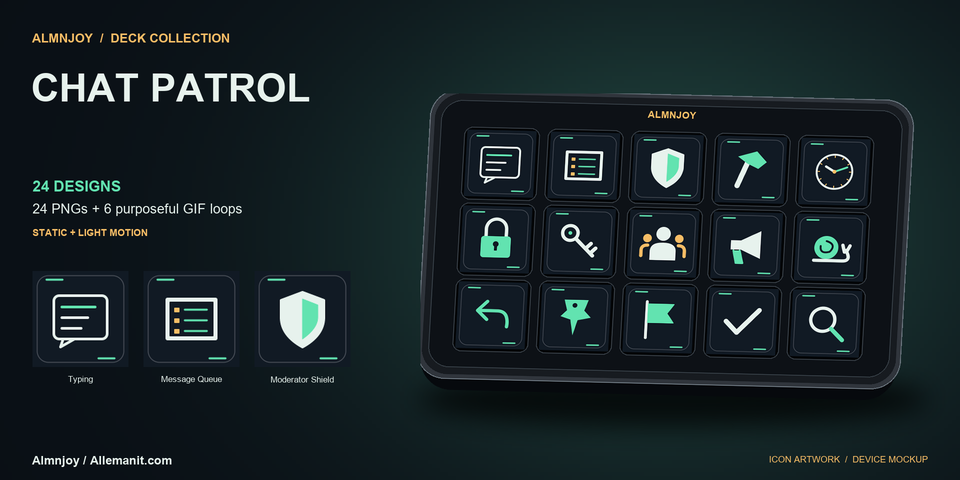
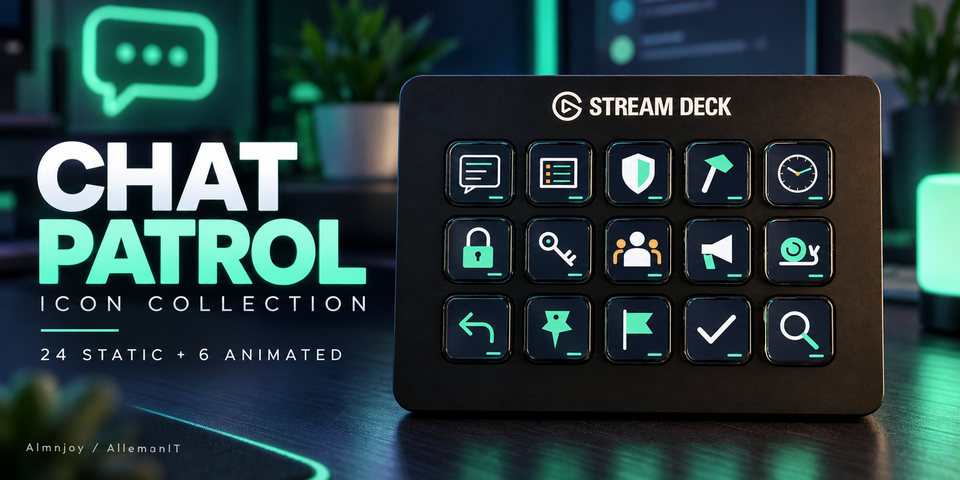
Refresh Marketplace media and add Range Finder support

diff --git a/src/data/marketplace.ts b/src/data/marketplace.ts
@@ -3,7 +3,8 @@
 //
 // Titles, categories, prices and URLs: Scout's verified listing facts, observed 2026-09-25, plus the
 //   2026-09-29 submission batch (24 products Pending review in Maker Console, prices as submitted).
-//   Library of record: PRODUCTION-1/Brand-and-Marketing/ElgatoMarketplace/README.md
+//   Library of record: BUSINESS/Brand-and-Marketing/ElgatoMarketplace/README.md
+// Media refreshed and Range Finder 0.7.0 publication confirmed by Dustin, 2026-10-10.
 // Taglines, alt text and notes: condensed from each product's DESCRIPTION.txt / LISTING.json.
 // Nothing here is written from scratch. Adding a product is one object in `products`.
 // status: live = published and purchasable; pending = submitted, Elgato review not finished, no public URL yet;
@@ -18,8 +19,9 @@ export type Product = {
   note?: string;                        // constraint carried over from the listing itself
   price?: string;                       // current price shown on the listing, not a quote from us
   url?: string;                         // canonical public listing URL
-  status: 'live' | 'pending' | 'coming-soon';
+  status: 'live' | 'pending' | 'revision' | 'coming-soon';
   version?: string;
+  support?: string;
 };
 
 // The date every price and URL below was read off the listing pages.
@@ -135,16 +137,18 @@ export const products: Product[] = [
     status: 'live',
   },
   {
-    // Published 0.6.1 in Maker Console (observed 2026-09-29). Public listing URL still to be pasted in.
+    // 0.7.0 published, confirmed by Dustin on 2026-10-10.
     slug: 'range-finder',
     title: 'Range Finder Companion',
     category: 'Plugins',
-    tagline: 'Map coordinates, bearing, distance and supply requests on one Stream Deck key for WARDOGS players, with three matching 15-key profile pages.',
+    tagline: 'Map coordinates, bearing, distance and supply requests on one Stream Deck key for WARDOGS players, with 15-key and XL profiles, three styles, calibration reset and input troubleshooting.',
     alt: 'Range Finder Companion cover: the Ultimate Artillery Deck layout, fifteen illustrative key states in amber on dark green showing position and target set, bearing and range, coordinates reset, open map, request ammo, request supplies, recenter, zoom, fire, Steam status, news and calibration.',
     note: 'Independent companion for WARDOGS, not an official game product. Range uses captured coordinates and the configured map scale; ballistic elevation is not calculated.',
     price: '$3.99',
     status: 'live',
-    version: '0.6.1',
+    version: '0.7.0',
+    support: '/support/range-finder/',
+    url: 'https://marketplace.elgato.com/product/range-finder-companion-dc521771-db4a-4fd7-a462-22f3790a043b',
   },
 
   // 2026-09-29 batch: submitted, Pending review, auto-publish on approval. No public URLs until Elgato approves.
@@ -153,7 +157,7 @@ export const products: Product[] = [
     title: 'Chat Patrol',
     category: 'Icons',
     tagline: 'Community moderation and chat tools. 24 static designs plus six animated alternatives: typing, timeout, inbox, poll, volume meter, notification.',
-    alt: 'Chat Patrol cover: fifteen Stream Deck keys on a device mockup showing the Chat Patrol artwork, ivory symbols with the pack\'s accent colors.',
+    alt: 'Chat Patrol artwork displayed on a Stream Deck in a themed desk scene.',
     note: 'Animated loops are decorative and run independently of actions.',
     price: '$3.99',
     status: 'pending',
@@ -163,7 +167,7 @@ export const products: Product[] = [
     title: 'Scene Switch',
     category: 'Icons',
     tagline: 'Broadcast scenes and source controls. 24 static designs plus six animated alternatives: scene cut, starting soon, fade, audio meter, studio lamp, transition.',
-    alt: 'Scene Switch cover: fifteen Stream Deck keys on a device mockup showing the Scene Switch artwork, ivory symbols with the pack\'s accent colors.',
+    alt: 'Scene Switch artwork displayed on a Stream Deck in a themed desk scene.',
     note: 'Animated loops are decorative and run independently of actions.',
     price: '$3.99',
     status: 'pending',
@@ -173,7 +177,7 @@ export const products: Product[] = [
     title: 'Audio Orbit',
     category: 'Icons',
     tagline: 'A compact mixing and listening desk. 24 static designs plus six animated alternatives: level meter, channel fader, waveform, tape reel, beat, gain knob.',
-    alt: 'Audio Orbit cover: fifteen Stream Deck keys on a device mockup showing the Audio Orbit artwork, ivory symbols with the pack\'s accent colors.',
+    alt: 'Audio Orbit artwork displayed on a Stream Deck in a themed desk scene.',
     note: 'Animated loops are decorative and run independently of actions.',
     price: '$3.99',
     status: 'pending',
@@ -183,7 +187,7 @@ export const products: Product[] = [
     title: 'Clip Factory',
     category: 'Icons',
     tagline: 'Editing and clip assembly. 24 static designs plus six animated alternatives: trim cut, playhead, render queue, captions, audio meter, slate.',
-    alt: 'Clip Factory cover: fifteen Stream Deck keys on a device mockup showing the Clip Factory artwork, ivory symbols with the pack\'s accent colors.',
+    alt: 'Clip Factory artwork displayed on a Stream Deck in a themed desk scene.',
     note: 'Animated loops are decorative and run independently of actions.',
     price: '$3.99',
     status: 'pending',
@@ -193,7 +197,7 @@ export const products: Product[] = [
     title: 'Dungeon Master Desk',
     category: 'Icons',
     tagline: 'Tabletop sessions and encounter tools. 24 static designs plus six animated alternatives: dice roll, session clock, candle, treasure, potion, portal.',
-    alt: 'Dungeon Master Desk cover: fifteen Stream Deck keys on a device mockup showing the Dungeon Master Desk artwork, ivory symbols with the pack\'s accent colors.',
+    alt: 'Dungeon Master Desk artwork displayed on a Stream Deck in a themed desk scene.',
     note: 'Animated loops are decorative and run independently of actions.',
     price: '$3.99',
     status: 'pending',
@@ -203,7 +207,7 @@ export const products: Product[] = [
     title: 'Inventory Alchemy',
     category: 'Icons',
     tagline: 'Ingredients, equipment and crafting storage. 24 static designs plus six animated alternatives: brew, inventory chest, crafting hammer, furnace, scales, seedling.',
-    alt: 'Inventory Alchemy cover: fifteen Stream Deck keys on a device mockup showing the Inventory Alchemy artwork, ivory symbols with the pack\'s accent colors.',
+    alt: 'Inventory Alchemy artwork displayed on a Stream Deck in a themed desk scene.',
     note: 'Animated loops are decorative and run independently of actions.',
     price: '$3.99',
     status: 'pending',
@@ -213,7 +217,7 @@ export const products: Product[] = [
     title: 'Cyber Terminal',
     category: 'Icons',
     tagline: 'Terminal tools and secure workspaces. 24 static designs plus six animated alternatives: command entry, file transfer, data activity, network traffic, access gate, health meter.',
-    alt: 'Cyber Terminal cover: fifteen Stream Deck keys on a device mockup showing the Cyber Terminal artwork, ivory symbols with the pack\'s accent colors.',
+    alt: 'Cyber Terminal artwork displayed on a Stream Deck in a themed desk scene.',
     note: 'Animated loops are decorative and run independently of actions.',
     price: '$3.99',
     status: 'pending',
@@ -223,7 +227,7 @@ export const products: Product[] = [
     title: 'Network Watch',
     category: 'Icons',
     tagline: 'Network operations and diagnostics. 24 static designs plus six animated alternatives: packet flow, throughput, server activity, ping trace, port scan, uptime.',
-    alt: 'Network Watch cover: fifteen Stream Deck keys on a device mockup showing the Network Watch artwork, ivory symbols with the pack\'s accent colors.',
+    alt: 'Network Watch artwork displayed on a Stream Deck in a themed desk scene.',
     note: 'Animated loops are decorative and run independently of actions.',
     price: '$3.99',
     status: 'pending',
@@ -233,7 +237,7 @@ export const products: Product[] = [
     title: 'Build Bay',
     category: 'Icons',
     tagline: 'Workshop builds and engineering tasks. 24 static designs plus six animated alternatives: hammer strike, build progress, bench vise, measure, weld, level.',
-    alt: 'Build Bay cover: fifteen Stream Deck keys on a device mockup showing the Build Bay artwork, ivory symbols with the pack\'s accent colors.',
+    alt: 'Build Bay artwork displayed on a Stream Deck in a themed desk scene.',
     note: 'Animated loops are decorative and run independently of actions.',
     price: '$3.99',
     status: 'pending',
@@ -243,7 +247,7 @@ export const products: Product[] = [
     title: 'Deploy Station',
     category: 'Icons',
     tagline: 'Software delivery and release operations. 24 static designs plus six animated alternatives: pipeline, console, service, traffic, health, release gate.',
-    alt: 'Deploy Station cover: fifteen Stream Deck keys on a device mockup showing the Deploy Station artwork, ivory symbols with the pack\'s accent colors.',
+    alt: 'Deploy Station artwork displayed on a Stream Deck in a themed desk scene.',
     note: 'Animated loops are decorative and run independently of actions.',
     price: '$3.99',
     status: 'pending',
@@ -253,7 +257,7 @@ export const products: Product[] = [
     title: 'Focus Workshop',
     category: 'Icons',
     tagline: 'Personal work sessions and organization. 24 static designs plus six animated alternatives: focus timer, task progress, inbox, writing, desk light, break brew.',
-    alt: 'Focus Workshop cover: fifteen Stream Deck keys on a device mockup showing the Focus Workshop artwork, ivory symbols with the pack\'s accent colors.',
+    alt: 'Focus Workshop artwork displayed on a Stream Deck in a themed desk scene.',
     note: 'Animated loops are decorative and run independently of actions.',
     price: '$3.99',
     status: 'pending',
@@ -263,7 +267,7 @@ export const products: Product[] = [
     title: 'Night Shift',
     category: 'Icons',
     tagline: 'Late-night desk routines. 24 static designs plus six animated alternatives: desk lamp, shift timer, coffee, night rain, moon clouds, audio meter.',
-    alt: 'Night Shift cover: fifteen Stream Deck keys on a device mockup showing the Night Shift artwork, ivory symbols with the pack\'s accent colors.',
+    alt: 'Night Shift artwork displayed on a Stream Deck in a themed desk scene.',
     note: 'Animated loops are decorative and run independently of actions.',
     price: '$3.99',
     status: 'pending',
@@ -273,7 +277,7 @@ export const products: Product[] = [
     title: 'Coffee Circuit',
     category: 'Icons',
     tagline: 'Coffee bar and work-break rituals. 24 static designs plus six animated alternatives: hot cup, pour over, espresso gauge, brew timer, coffee grinder, milk pour.',
-    alt: 'Coffee Circuit cover: fifteen Stream Deck keys on a device mockup showing the Coffee Circuit artwork, ivory symbols with the pack\'s accent colors.',
+    alt: 'Coffee Circuit artwork displayed on a Stream Deck in a themed desk scene.',
     note: 'Animated loops are decorative and run independently of actions.',
     price: '$3.99',
     status: 'pending',
@@ -283,7 +287,7 @@ export const products: Product[] = [
     title: 'Cozy Garden',
     category: 'Icons',
     tagline: 'Plants, seasons and garden routines. 24 static designs plus six animated alternatives: seed growth, watering, rain, butterfly, bloom, garden gate.',
-    alt: 'Cozy Garden cover: fifteen Stream Deck keys on a device mockup showing the Cozy Garden artwork, ivory symbols with the pack\'s accent colors.',
+    alt: 'Cozy Garden artwork displayed on a Stream Deck in a themed desk scene.',
     note: 'Animated loops are decorative and run independently of actions.',
     price: '$3.99',
     status: 'pending',
@@ -293,7 +297,7 @@ export const products: Product[] = [
     title: 'Weather Window',
     category: 'Icons',
     tagline: 'Weather-inspired decorative artwork. 24 static designs plus six animated alternatives: rainfall, snowfall, cloud drift, thermometer, wind sock, lightning.',
-    alt: 'Weather Window cover: fifteen Stream Deck keys on a device mockup showing the Weather Window artwork, ivory symbols with the pack\'s accent colors.',
+    alt: 'Weather Window artwork displayed on a Stream Deck in a themed desk scene.',
     note: 'Animated loops are decorative and run independently of actions.',
     price: '$3.99',
     status: 'pending',
@@ -303,7 +307,7 @@ export const products: Product[] = [
     title: 'Space Cargo',
     category: 'Icons',
     tagline: 'Freight logistics in a fictional spaceport. 24 static designs plus six animated alternatives: cargo door, container, loading, fuel gauge, dock traffic, airlock.',
-    alt: 'Space Cargo cover: fifteen Stream Deck keys on a device mockup showing the Space Cargo artwork, ivory symbols with the pack\'s accent colors.',
+    alt: 'Space Cargo artwork displayed on a Stream Deck in a themed desk scene.',
     note: 'Animated loops are decorative and run independently of actions.',
     price: '$3.99',
     status: 'pending',
@@ -313,7 +317,7 @@ export const products: Product[] = [
     title: 'Ocean Station',
     category: 'Icons',
     tagline: 'A fictional underwater research station. 24 static designs plus six animated alternatives: water sample, current, pressure, sonar trace, station gate, fish swim.',
-    alt: 'Ocean Station cover: fifteen Stream Deck keys on a device mockup showing the Ocean Station artwork, ivory symbols with the pack\'s accent colors.',
+    alt: 'Ocean Station artwork displayed on a Stream Deck in a themed desk scene.',
     note: 'Animated loops are decorative and run independently of actions.',
     price: '$3.99',
     status: 'pending',
@@ -323,7 +327,7 @@ export const products: Product[] = [
     title: 'Arcade Tokens',
     category: 'Icons',
     tagline: 'Original arcade room controls and collectibles. 24 static designs plus six animated alternatives: joystick, button press, score counter, coin drop, prize chest, game timer.',
-    alt: 'Arcade Tokens cover: fifteen Stream Deck keys on a device mockup showing the Arcade Tokens artwork, ivory symbols with the pack\'s accent colors.',
+    alt: 'Arcade Tokens artwork displayed on a Stream Deck in a themed desk scene.',
     note: 'Animated loops are decorative and run independently of actions.',
     price: '$3.99',
     status: 'pending',
@@ -333,7 +337,7 @@ export const products: Product[] = [
     title: 'Music Workshop',
     category: 'Icons',
     tagline: 'Music practice, recording and production. 24 static designs plus six animated alternatives: metronome, piano keys, channel meter, mixer fader, tape machine, waveform.',
-    alt: 'Music Workshop cover: fifteen Stream Deck keys on a device mockup showing the Music Workshop artwork, ivory symbols with the pack\'s accent colors.',
+    alt: 'Music Workshop artwork displayed on a Stream Deck in a themed desk scene.',
     note: 'Animated loops are decorative and run independently of actions.',
     price: '$3.99',
     status: 'pending',
@@ -343,7 +347,7 @@ export const products: Product[] = [
     title: 'Creator Camera',
     category: 'Icons',
     tagline: 'Photography and video capture tools. 24 static designs plus six animated alternatives: camera shutter, slate, focus pull, exposure meter, studio light, capture timer.',
-    alt: 'Creator Camera cover: fifteen Stream Deck keys on a device mockup showing the Creator Camera artwork, ivory symbols with the pack\'s accent colors.',
+    alt: 'Creator Camera artwork displayed on a Stream Deck in a themed desk scene.',
     note: 'Animated loops are decorative and run independently of actions.',
     price: '$3.99',
     status: 'pending',
@@ -353,7 +357,7 @@ export const products: Product[] = [
     title: 'Signal Desk',
     category: 'Icons',
     tagline: '96 static designs for everyday desk control: microphone and speaker, media playback, screenshots, clipboard, folders, calendar, notes, focus, system and navigation.',
-    alt: 'Signal Desk cover: fifteen Stream Deck keys with bold ivory symbols on dark backgrounds and small electric orange and blue accents.',
+    alt: 'Signal Desk artwork displayed on a Stream Deck in a themed desk scene.',
     price: '$4.99',
     status: 'pending',
   },
@@ -362,7 +366,7 @@ export const products: Product[] = [
     title: 'Orbital Console',
     category: 'Icons',
     tagline: '72 original spaceflight designs, each as an animated GIF and a static PNG: landing gear, docking, cargo, scanner, mining, engines, shields, life support, crew, navigation.',
-    alt: 'Orbital Console cover: fifteen Stream Deck keys with ivory silhouettes, cyan instruments and amber details on deep navy panels.',
+    alt: 'Orbital Console artwork displayed on a Stream Deck in a themed desk scene.',
     note: 'Original artwork, not affiliated with any game publisher. Animations are decorative.',
     price: '$7.99',
     status: 'pending',
@@ -372,7 +376,7 @@ export const products: Product[] = [
     title: 'On Air Motion',
     category: 'Icons',
     tagline: '60 broadcast-style designs with 36 animated versions and a static PNG for every design: recording, microphone, camera, scene, replay, marker, captions, studio light, screen share.',
-    alt: 'On Air Motion cover: fifteen Stream Deck keys with ivory symbols, coral accents and cool blue details inside dark console-style frames.',
+    alt: 'On Air Motion artwork displayed on a Stream Deck in a themed desk scene.',
     note: 'Animations are decorative and run independently of actions.',
     price: '$6.99',
     status: 'pending',
@@ -380,12 +384,12 @@ export const products: Product[] = [
   {
     slug: 'bf6-field-kit',
     title: 'BF6 Field Kit',
-    category: 'Profiles',
+    category: 'Plugins',
     tagline: 'A 15-key infantry layout with its own companion plugin for Battlefield 6 players: map, scoreboard, ping, interact, reload, weapon and gadget slots, plus a manual round timer and Steam player count.',
     alt: 'BF6 Field Kit cover: fifteen Stream Deck keys in a field-kit style with map, scoreboard, ping, reload and weapon slot symbols.',
     note: 'Independent AllemanIT work, not an official Battlefield or EA product. Key bindings are configurable shortcuts; in-game defaults may differ.',
     price: '$3.99',
-    status: 'pending',
+    status: 'revision',
     version: '1.0.0',
   },
   {
@@ -430,5 +434,6 @@ export const counts = {
   total: products.length,
   live: products.filter((p) => p.status === 'live').length,
   pending: products.filter((p) => p.status === 'pending').length,
+  revisions: products.filter((p) => p.status === 'revision').length,
   comingSoon: products.filter((p) => p.status === 'coming-soon').length,
 };
